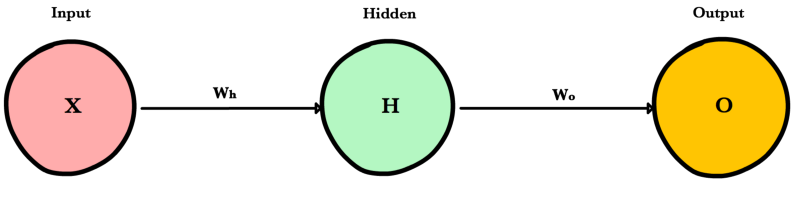
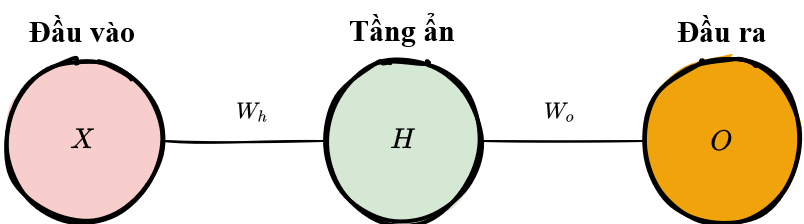
Dịch phần Các khái niệm cơ bản - Mạng Nơ-ron (#16)
* add translation for nn_concepts

* translate images for nn_concepts

* rescale new images

* fix minor typos

diff --git a/docs/nn_concepts_vn.rst b/docs/nn_concepts_vn.rst
@@ -1,0 +1,183 @@
+.. _nn_concepts:
+
+====================
+Các khái niệm cơ bản
+====================
+
+.. contents:: :local:
+
+
+Mạng Nơ-ron - *Neural Network*
+==============================
+
+Mạng nơ-ron, hay còn được gọi là mạng thần kinh nhân tạo, là một họ các thuật toán học máy được sử dụng để mô hình hoá các mối quan hệ phức tạp trong dữ liệu sử dụng nhiều tầng ẩn và các hàm kích hoạt phi tuyến.
+Một mạng nơ-ron truyền đầu vào qua nhiều tầng nơ-ron ẩn qua các kết nối (mỗi tầng là một hàm con với hệ số riêng biệt cần phải học), và trả về đầu ra là kết quả dự đoán là sự kết hợp của tất cả các nơ-ron trong mạng.
+
+.. image:: images/neural_network_w_matrices.png
+    :align: center
+    :height: 464 px
+    :width: 884 px
+    :scale: 55 %
+
+Một mạng nơ-ron có thể được huấn luyện bằng các kỹ thuật tối ưu như :doc:`gradient_descent_vn`.
+Sau mỗi vòng lặp, hàm lỗi tượng trưng cho mất mát dự đoán được tính dựa vào sự sai lệch giữa dự đoán của mô hình và quan sát thực tế.
+Đạo hàm của hàm lỗi được tính và truyền ngược lại mạng sử dụng kỹ thuật có tên gọi :doc:`backpropagation_vn`.
+Các hệ số (trọng số) của mỗi nơ-ron sau đó được điều chỉnh tuỳ vào ảnh hưởng của nó tới tổng lỗi của mạng (dựa vào đạo hàm riêng).
+Quá trình học này được lặp đi lặp lại cho tới khi hàm lỗi đạt giá trị dưới 1 ngưỡng nhất định.
+
+
+Nơ-ron
+======
+
+Một nơ-ron nhận 1 vector đầu vào được đánh trọng số, đưa đầu vào qua hàm kích hoạt, và trả về đầu ra.
+
+.. figure:: images/neuron.png
+    :align: center
+    :height: 302 px
+    :width: 682 px
+    :scale: 60 %
+
+    Một nơ-ron với các đầu vào :math:`(X_1, X_2, X_3)`, các trọng số :math:`(W_1, W_2, W_3)` trên khớp thần kinh, và hàm kích hoạt **Sigmoid**.
+
+Đầu vào của mỗi nơ-ron có thể là vector đặc trưng từ tập huấn luyện, hoặc là đầu ra của tầng nơ-ron trước nó.
+Từng phần tử của đầu vào sau đó được đánh trọng số khi được truyền qua khớp thần kinh (*synapse*) tới nơ-ron.
+Nơ-ron sau đó áp dụng hàm kích hoạt lên "tổng đầu vào đã được đánh trọng số" từ mỗi khớp thần kinh tới và truyền kết quả ở đầu ra tới tất cả các nơ-ron ở tầng tiếp theo.
+
+
+
+Khớp thần kinh - *Synapse*
+==========================
+
+Các khớp thần kinh cũng giống như các đường truyền trong mạng nơ-ron.
+Chúng liên kết đầu vào với các nơ-ron, nơ-ron ở tầng trước tới nơ-ron tầng kế tiếp, và từ nơ-ron tới đầu ra.
+Để có thể đi từ 1 nơ-ron này tới 1 nơ-ron khác, thông tin sẽ phải di chuyển qua các khớp thần kinh và trả lệ phí (đánh trọng số) khi đi qua.
+
+Thông thường, giữa 2 nơ-ron chỉ có 1 khớp thần kinh duy nhất liên kết chúng với nhau và được gán cho 1 trọng số riêng biệt.
+Khi ta đề cập tới việc cập nhật trọng số trong một mạng, thực chất đó là việc điều chỉnh các trọng số của các khớp thần kinh này.
+
+
+.. _nn_weights:
+
+Trọng số
+========
+
+Trọng số là các giá trị quy định cường độ liên kết giữa 2 nơ-ron.
+Tức là thông tin khi được truyền giữa các nơ-ron sẽ được nhân với trọng số (thường thì sẽ cộng thêm 1 giá trị nữa gọi là hệ số điều chỉnh), và qua đó quy định sự ảnh hưởng của thông tin đó tới đầu ra.
+
+.. _nn_bias:
+
+Hệ số điều chỉnh - *Bias*
+=========================
+
+Hệ số điều chỉnh là một hệ số phụ gắn với các nơ-ron, được cộng vào trọng số sau khi đã đánh trọng số và trước khi đưa qua hàm kích hoạt.
+Hệ số điều chỉnh giúp mô hình biểu diễn mối quan hệ tuyến tính mà không đi qua gốc toạ độ (như đã đề cập :ref:`tại đây <glossary_bias_term>`).
+Hệ số điều chỉnh cũng cần được học trong quá trình huấn luyện mạng nơ-ron.
+
+
+Các tầng trong mạng nơ-ron cơ bản - *Layers*
+============================================
+
+.. image:: images/neural_network_simple.png
+    :align: center
+    :height: 224 px
+    :width: 804 px
+    :scale: 60 %
+
+.. rubric:: Tầng đầu vào
+
+Là tầng mà dữ liệu đầu vào sẽ được truyền vào mô hình.
+Mỗi nơ-ron trong tầng đầu vào biểu diễn 1 thuộc tính của tập dữ liệu (ví dụ như chiều cao, màu tóc, ..v.v..).
+
+.. rubric:: Tầng ẩn - Hidden Layer
+
+Là các tầng ở giữa tầng đầu vào và đầu ra và áp dụng hàm kích hoạt trước khi truyền kết quả ra.
+Thường thì các mạng nơ-ron sẽ có nhiều tầng ẩn.
+Trong các mạng truyền thống, các tầng ẩn thường là các tầng kết nối đầy đủ (*fully-connected*) - mỗi nơ-ron nhận đầu ra từ tất cả các nơ-ron của tầng trước làm đầu vào và đưa kết quả của nó tới tất cả các nơ-ron ở tầng kế tiếp.
+Đặc điểm này trái ngược với các tầng tích chập (*convolutional*) khi các nơ-ron chỉ truyền kết quả đầu ra của nó tới 1 vài nơ-ron ở tầng kế tiếp.
+
+.. rubric:: Tầng đầu ra
+
+Là tầng cuối cùng của mạng nơ-ron.
+Nó nhận đầu ra của các nơ-ron từ tầng trước, áp dụng hàm kích hoạt (không bắt buộc), và trả về kết quả đại diện cho dự đoán của mô hình.
+
+
+Đánh trọng số
+=============
+
+Đầu vào của 1 nơ-ron bằng tổng đầu ra của các nơ-ron của tầng trước đã được đánh trọng số.
+Điều này nghĩa là mỗi phần tử của đầu vào được nhân với 1 trọng số tương ứng với khớp thần kinh mà liên kết tới nơ-ron này.
+Nếu có 3 nơ-ron ở tầng trước trong 1 mạng liên kết đầy đủ chẳng hạn, mỗi nơ-ron của tầng trước sẽ có 3 trọng số riêng biệt - mỗi trọng số tương ứng với 1 khớp thần kinh.
+
+**Đầu vào đơn**
+
+.. math::
+
+  Z &= Input \cdot Weight \\
+    &= X W
+
+**Nhiều đầu vào**
+
+.. math::
+
+  Z &= \sum_{i=1}^{n}x_i w_i \\
+    &= x_1 w_1 + x_2 w_2 + x_3 w_3 + \ldots
+
+*Chú ý* rằng công thức trên giống hệt với công thức của mô hình hồi quy tuyến tính.
+Thực chất, mạng nơ-ron với 1 nơ-ron chính là mô hình hồi quy tuyến tính.
+Sự khác biệt duy nhất là giai đoạn áp dụng hàm kích hoạt tại mỗi nơ-ron sau khi tính tổng đầu vào đánh trọng số.
+
+
+Hàm kích hoạt - Activation Functions
+====================================
+
+:ref:`Hàm kích hoạt <activation_functions_vn>` tồn tại trong các tầng của mạng nơ-ron và biến đổi dữ liệu nơ-ron nhận được trước khi truyền thông tin sang tầng kế tiếp.
+Hàm kích hoạt chính là thành phần cho phép mạng nơ-ron mô hình hoá các quan hệ phi tuyến phức tạp giữa các thuộc tính trong dữ liệu.
+Một số hàm kích hoạt được sử dụng phổ biến trong các mạng nơ-ron gồm có :ref:`hàm relu <activation_relu>` và :ref:`hàm sigmoid <activation_sigmoid>`.
+
+Các hàm kích hoạt thường có các tính chất sau:
+
+  * **Phi tuyến** - Trong hồi quy tuyến tính, ta bị giới hạn bởi phương trình dự đoán có đồ thị dạng một đường thẳng. Phương trình tuyến tính này phù hợp với các tập dữ liệu đơn giản với quan hệ một-một giữa đầu vào và đầu ra, nhưng sẽ thế nào nếu hình mẫu quan hệ trong tập dữ liệu là các hàm phi tuyến (như :math:`x^2`, :math:`\sin`, hay :math:`\log`)? Để mô hình hoá các quan hệ này ta cần các phương trình dự đoán có dạng phi tuyến. Các hàm kích hoạt giúp mạng nơ-ron đạt được điều kiện này.
+
+  * **Khả vi và liên tục** - Để cải thiện mô hình với hạ gradient, ta cần hàm dự đoán đầu ra phải có dạng đẹp đủ để ta tính đạo hàm lỗi theo các trọng số. Nếu một nơ-ron chỉ dự đoán :math:`0` hoặc :math:`1` (perceptron), tức là hàm dự đoán rời rạc không khả vi, ta sẽ không biết nên phải cập nhật trọng số theo hướng nào.
+
+  * **Khoảng giá trị cố định** - Một hàm kích hoạt thường ép dữ liệu đầu vào về 1 khoảng giá trị nhất định để giúp cho quá trình huấn luyện ổn định và hiệu quả hơn.
+
+
+Hàm mất mát - *Loss Function*
+=============================
+
+Một hàm mất mát, hay hàm chi phí, giúp ta đánh giá khả năng dự đoán của mô hình với tập tham số hiện tại.
+Hàm mất mát có đồ thị và đạo hàm của riêng nó.
+Độ dốc của đồ thị cho ta biết ta nên cập nhật tham số thế nào để giúp mô hình dự đoán chính xác hơn.
+
+Hàm mất mát hay hàm chi phí có thể tồn tại dưới nhiều dạng khác nhau tuỳ vào bài toán cần giải quyết.
+Một số hàm mất mát được sử dụng phổ biến gồm có :ref:`mse` and :ref:`Mất mát entropy chéo <loss_cross_entropy>`.
+
+
+Thuật toán tối ưu - *Optimization Algorithms*
+=============================================
+
+Be the first to `contribute! <https://github.com/bfortuner/ml-cheatsheet>`__
+
+
+Chồng chất gradient - *Gradient Accumulation*
+=============================================
+
+Chồng chất gradient là một cơ chế chia nhỏ 1 batch dữ liệu trong huấn luyện mạng nơ-ron thành nhiều batch nhỏ hơn để tính toán.
+Từ "chồng chất (*accumulation*)" trong tên gọi chồng chất gradient có nghĩa là chạy các batch nhỏ nối tiếp nhau (thường thì trên cùng 1 GPU) trong khi cộng dồn gradient của mỗi batch nhỏ lại và không cập nhật các tham số mô hình - các trọng số và hệ số điều chỉnh.
+Các tham số mô hình không được cập nhật trong quá trình chồng chất để đảm bảo rằng tất cả các batch nhỏ sử dụng cùng 1 bộ tham số để tính toán gradient.
+Chỉ sau khi hoàn thành việc tính tổng gradient của tất cả các batch nhỏ của 1 batch thì phương pháp này mới tiến hành sử dụng gradient tổng để cập nhật các tham số mô hình.
+Kết quả của quá trình chồng chất gradient giống hệt với khi ta sử dụng cả 1 batch lớn.
+
+Thông thường, kích thước batch lớn sẽ giúp quá trình huấn luyện mô hình được ổn định hơn, nhưng lại yêu cầu bộ nhớ GPU cao.
+Do đó, cách làm trên giúp lập trình viên có thể sử dụng kích thước batch lớn mà vẫn đảm bảo được hiệu quả huấn luyện nhờ chia 1 batch thành các batch nhỏ mà thoả mãn yêu cầu về bộ nhớ GPU.
+
+.. image:: images/gradient_accumulation.png
+    :align: center
+
+Để tìm hiểu chi tiết hơn về cơ chế này, bạn đọc có thể tham khảo tại [1]_ với chi tiết thuật toán, cách lập trình và ví dụ ứng dụng chồng chất gradient trong huấn luyện mạng nơ-ron.
+
+
+.. rubric:: Tài liệu tham khảo
+
+.. [1] https://github.com/run-ai/runai/tree/master/runai/ga/
